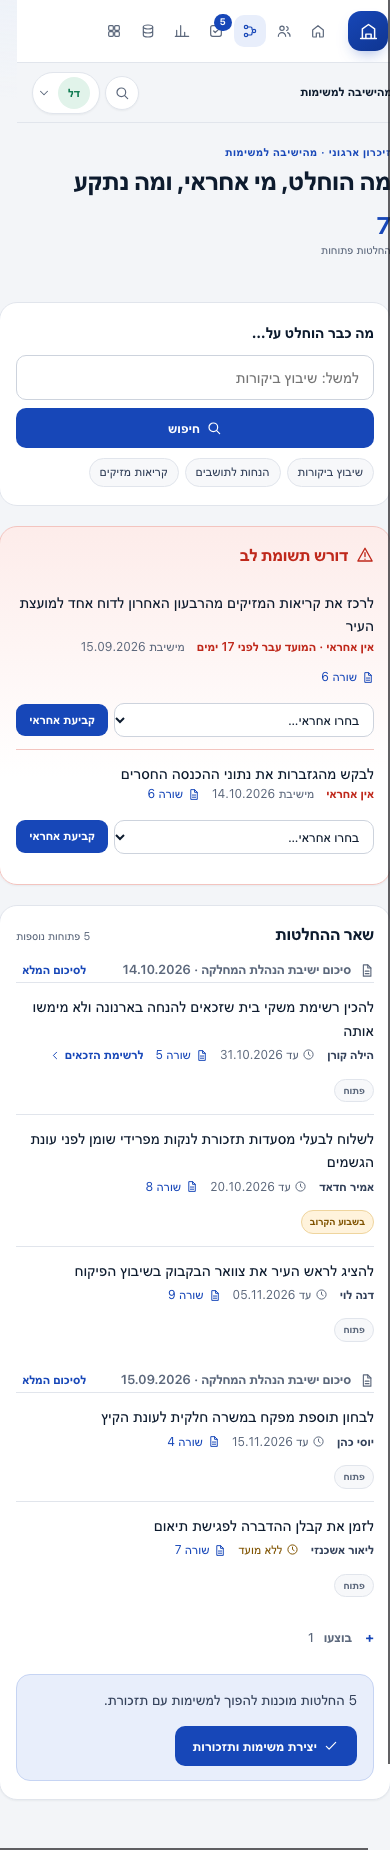
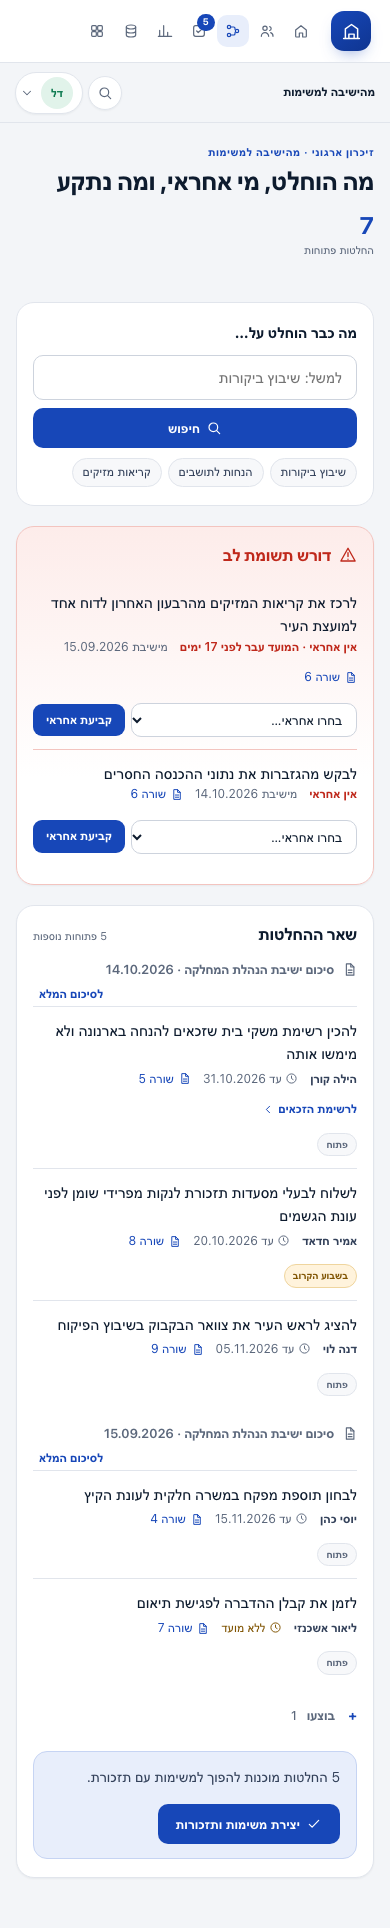
Keep the meeting owner picker within a phone viewport
The select plus button forced a 391px min-content width on the meetings page, which widened the layout viewport at 390px. Let the picker wrap and shrink, and refresh the mobile screenshot.

diff --git a/src/web/value.css b/src/web/value.css
@@ -295,3 +295,19 @@
 @media (max-width: 900px) { .v-tiles.is-three { grid-template-columns: 1fr 1fr; } }
 .kpi-strip { grid-template-columns: repeat(3, minmax(0, 1fr)); }
 @media (max-width: 900px) { .kpi-strip { grid-template-columns: 1fr; } }
+
+/* Grid and flex children on the value pages must be allowed to shrink below
+   their min-content width; otherwise a long meeting title widens the page. */
+.value-view,
+.value-view > *,
+.v-card,
+.v-recall,
+.v-alert,
+.v-decision,
+.v-meeting-title { min-width: 0; }
+.v-meeting-title { flex-wrap: wrap; }
+
+/* The owner picker is the widest control in an alert; let it wrap and shrink
+   on a phone instead of widening the card. */
+.v-assign { min-width: 0; flex-wrap: wrap; }
+.v-assign select { min-width: 0; flex: 1 1 180px; }
